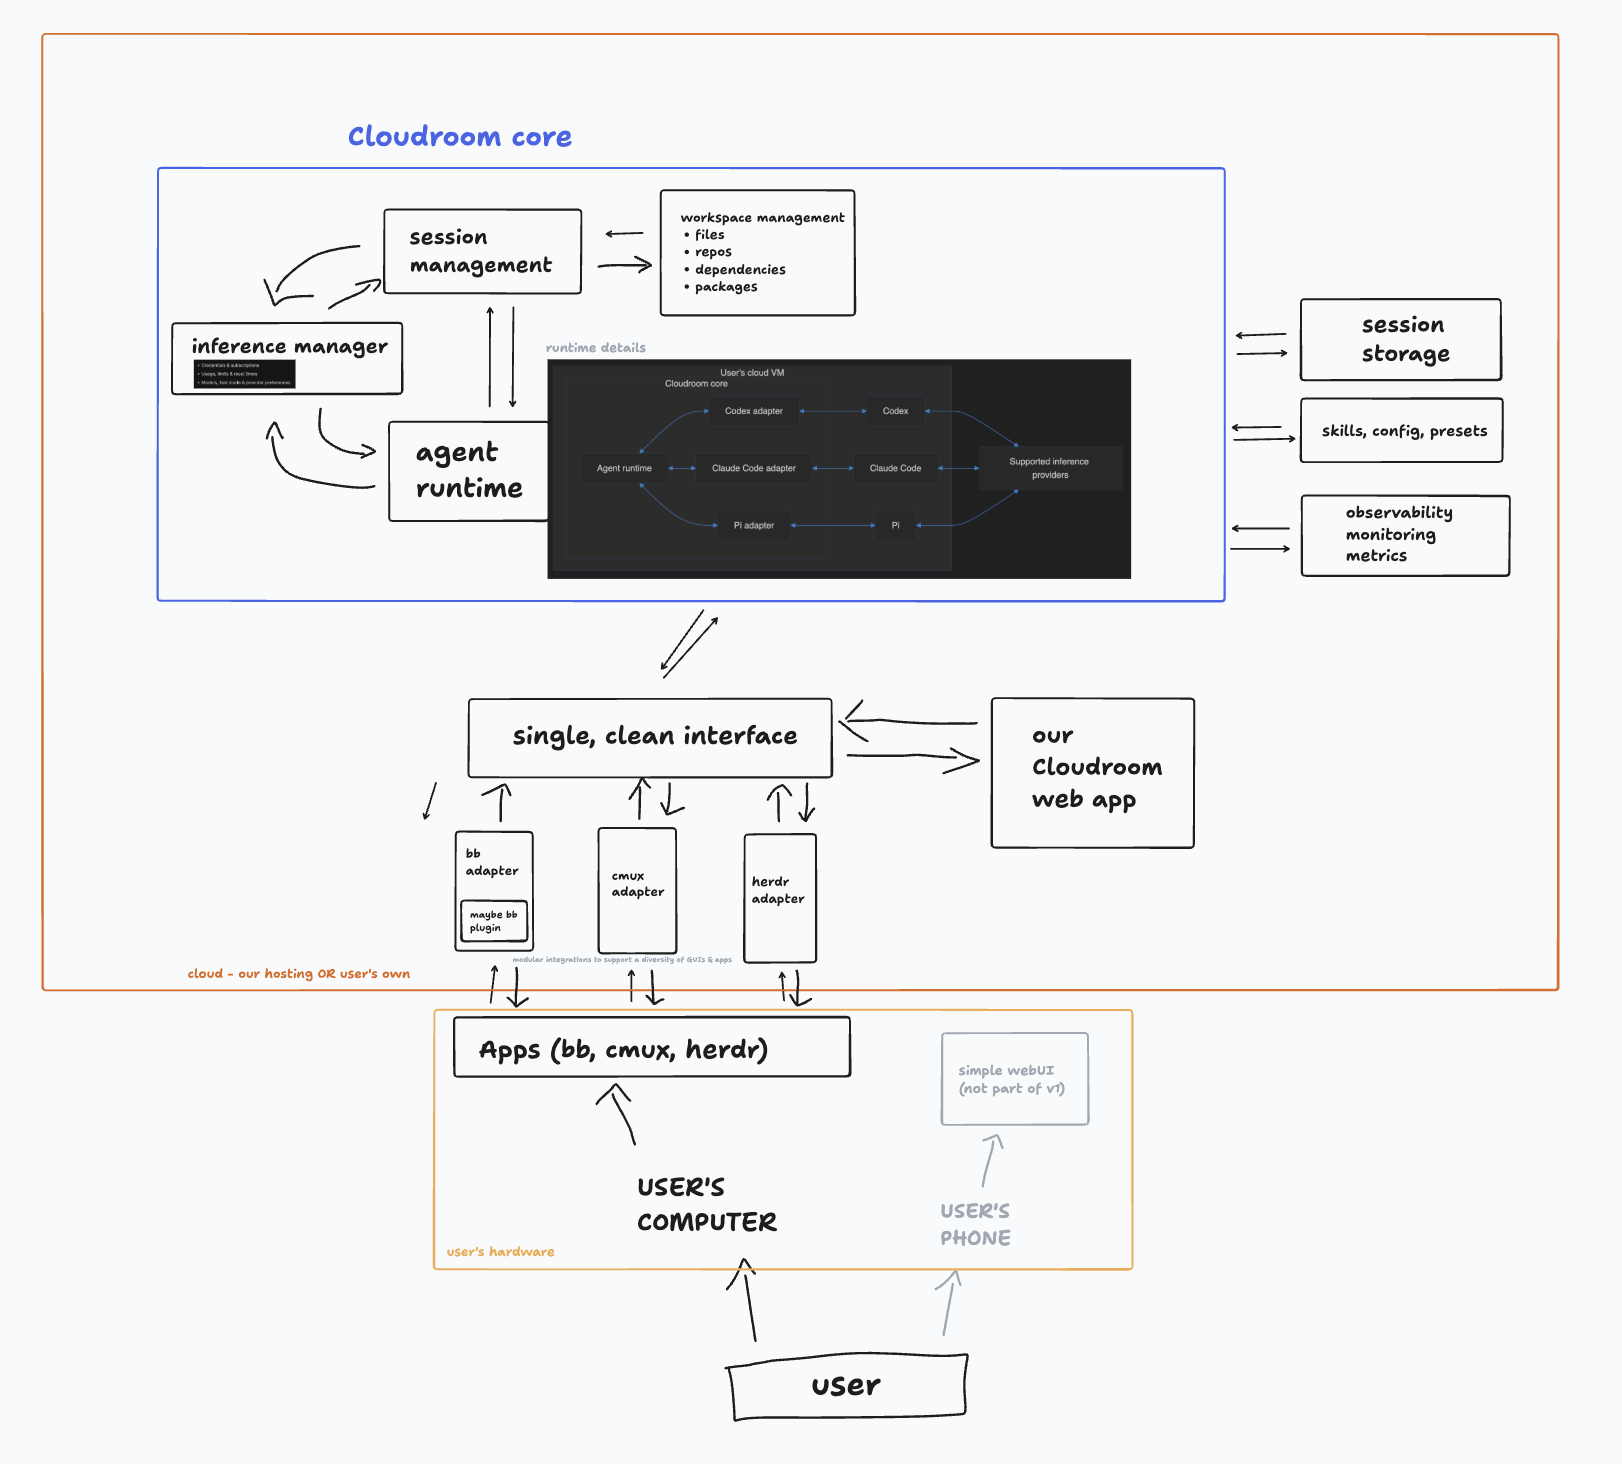
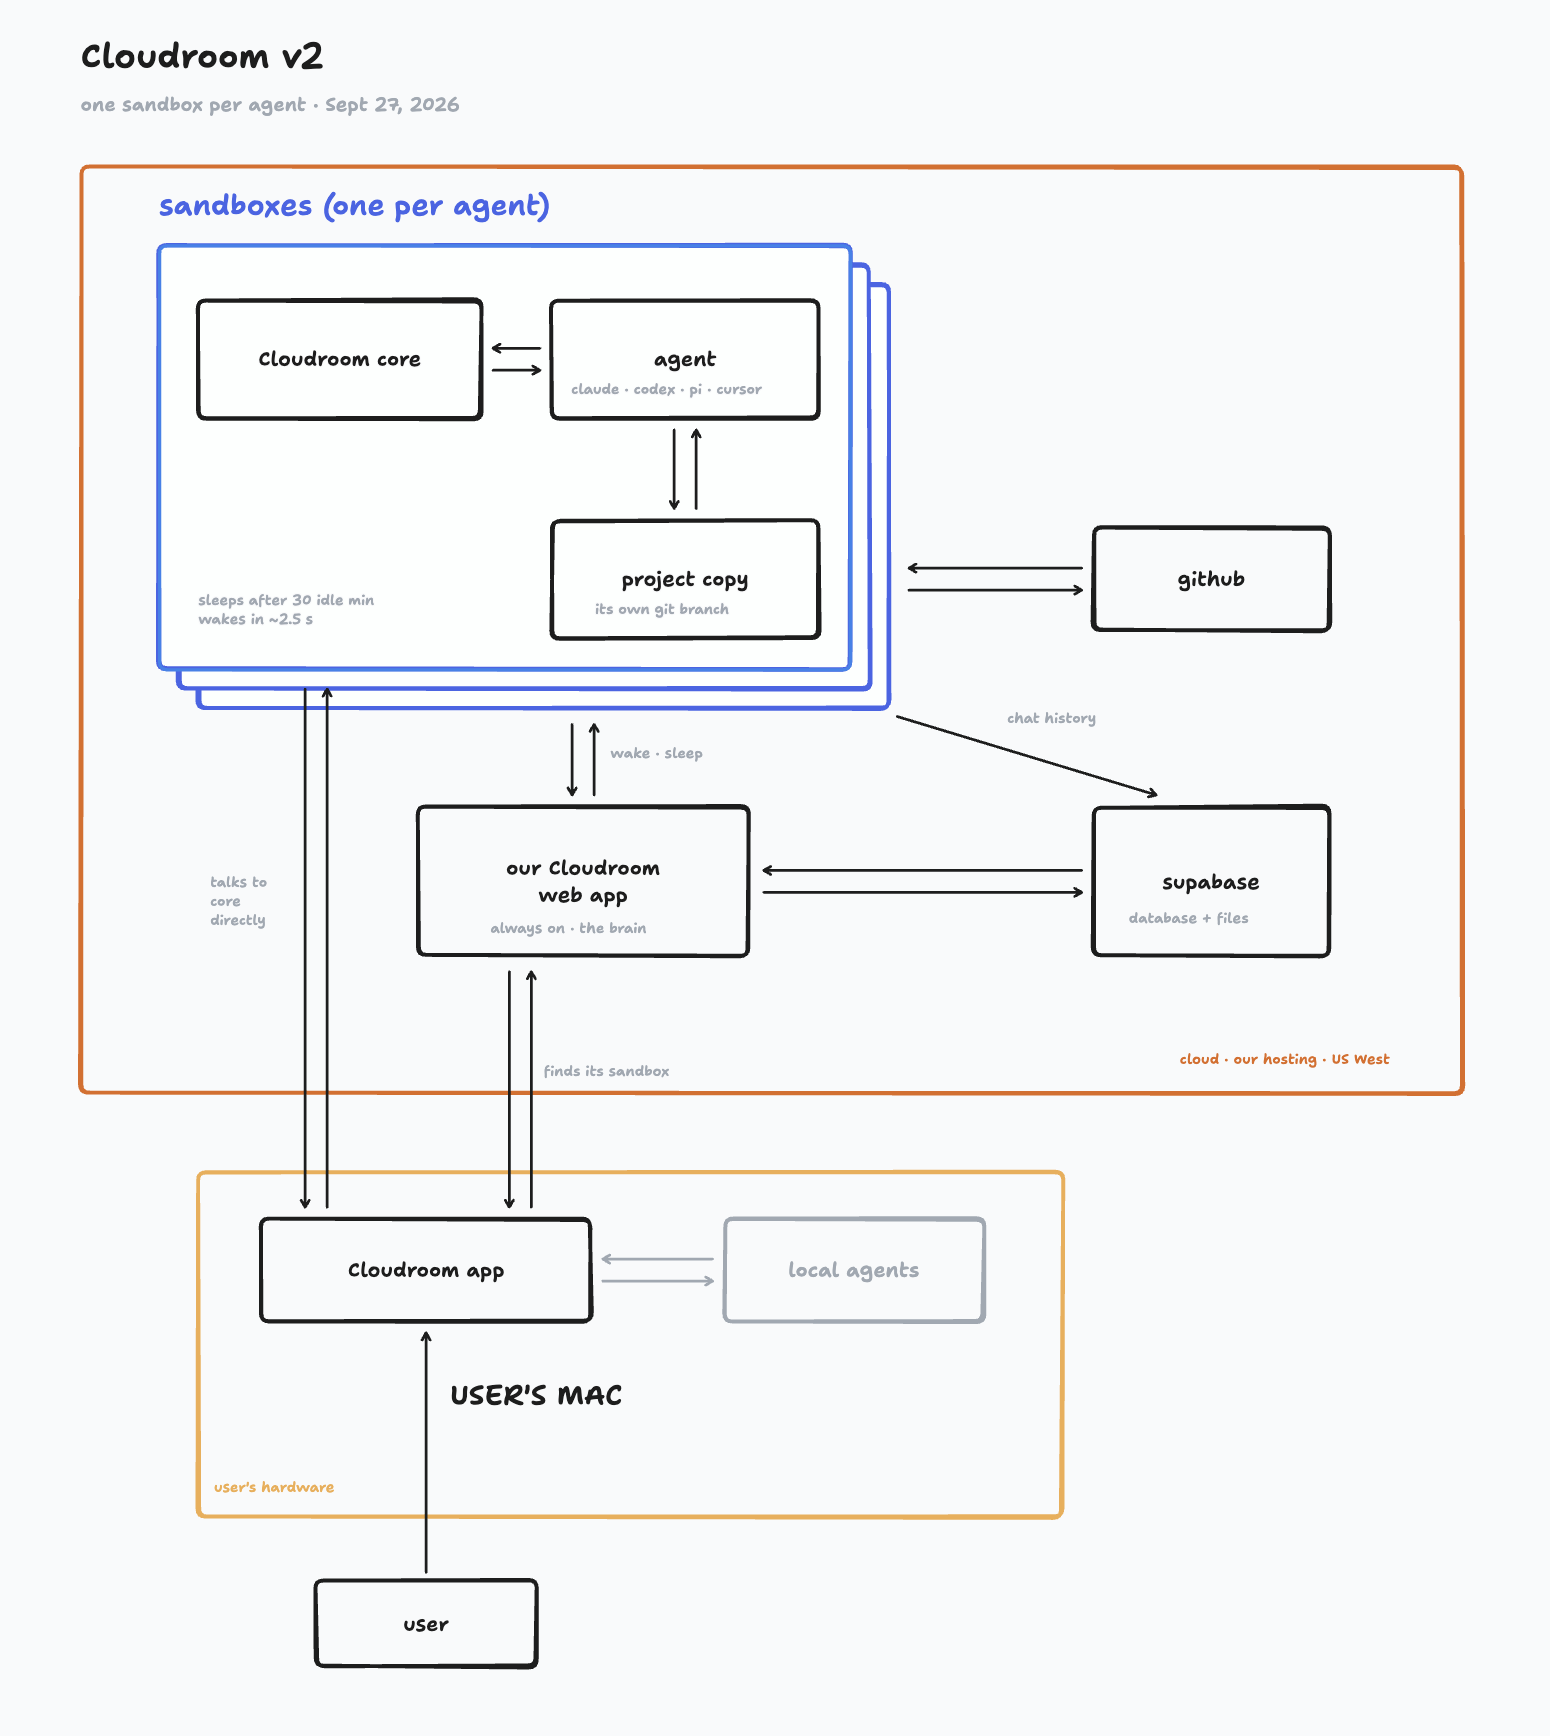
Update architecture diagram: one sandbox per agent

diff --git a/README.md b/README.md
@@ -7,9 +7,9 @@ Supports Codex, Claude Code, Pi, and Cursor. Agents make their own model calls w
 One Cargo package; one service per VM. No Cloudroom account or hosted service is required.
 Don't want to run your own VM? Hosted Cloudroom is invite-only for now. [Join the waitlist](https://www.cloudroom.dev/#waitlist).
 
-![Cloudroom core architecture: session management, agent runtime, workspace management, storage, and app integrations](docs/architecture.png)
+![Cloudroom architecture: one cloud sandbox per agent, each running Cloudroom core and the agent. The web app wakes and sleeps sandboxes; the desktop app talks to core directly.](docs/architecture.png)
 
-*Architecture design. Some components and integrations shown are planned, not yet implemented.*
+*Architecture as of September 27, 2026: one sandbox per agent.*
 
 ## Get started
 
